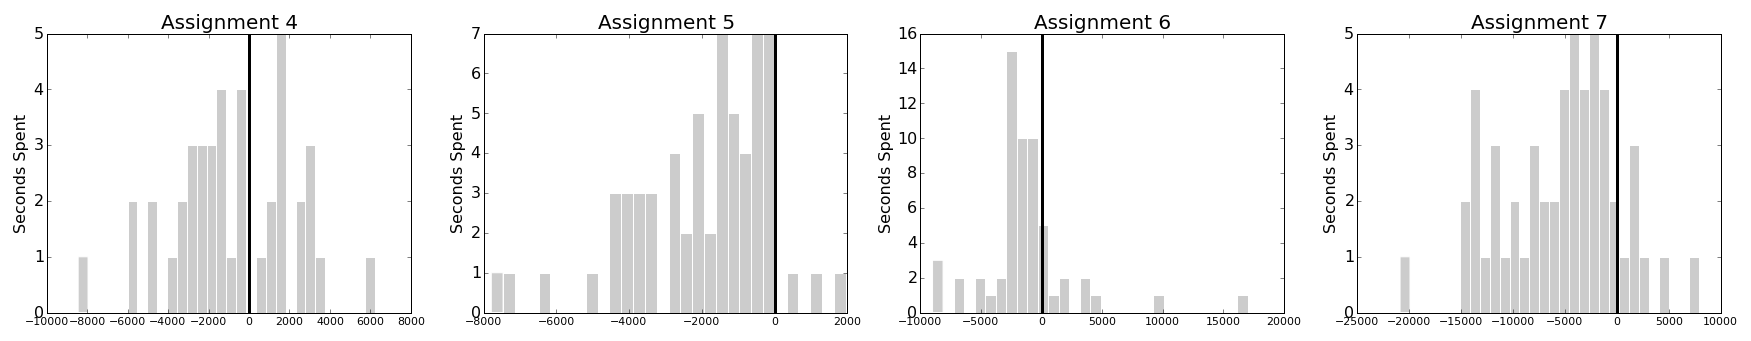
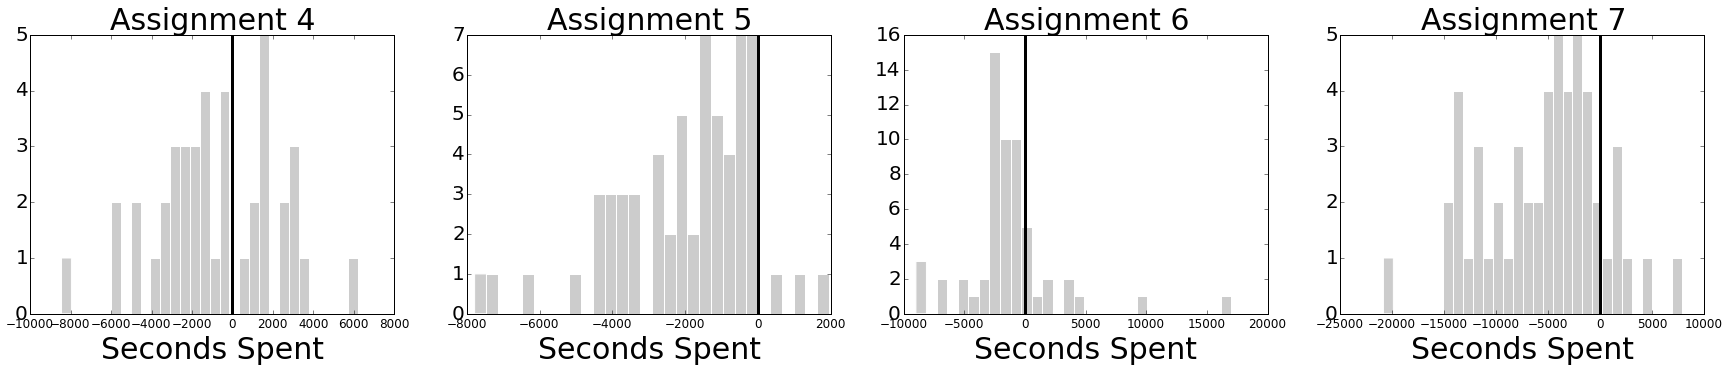
updated new graphs

diff --git a/main.tex b/main.tex
@@ -204,9 +204,8 @@ simplified setting. This design is based on the
 ``Verification-elaboration'' directive of Shute~\cite{Shute2008}.
 
 As an example of a specific hint, consider a problem about the
-probability of a specific hand in a Texas Hold'em poker. Figure
-\ref{fig:hint_prob} shows the problem, and Table \ref{tab:hints_sent}
-shows some of the hints designed for this problem. The first three hints
+probability of a specific hand in a Texas Hold'em poker. Figure \ref{fig:hints_sent}
+shows the problem and also some of the hints designed for this problem. The first three hints
 in the table are generic. The fourth attempt has no matching to
 any part of the solution, therefore the hint asks the student to focus
 on the first part of the solution, which is $C(52-2,2)$. The last
@@ -218,13 +217,7 @@ think about how to calculate a complement.
 
 \begin{figure}[t!]
   \centering
-	\includegraphics[width=0.95\textwidth]{image/problem_screenshot.png} \\
-	\includegraphics[width=0.95\textwidth]{image/part_screenshot.png}
-   \captionof{figure}{This is a problem(problem 5) assigned to students in week 4. The problem is to find the probability of a specific hand in Texas Hold'em poker. This problem has four parts that students need to answer. The picture shows the second part of the problem.}
-   \label{fig:hint_prob}
-
-
-\captionof{table}{The table lists a few student attempts for part two of problem 5 in week 4 assignment. The problem is shown in Figure \ref{fig:hint_prob} along with the question and the solution of part 2.}
+	\includegraphics[width=0.99\textwidth]{image/problem.png}
 \begin{center}
   \begin{tabular}{ p{2.5cm}  p{1.5cm}  p{7.5cm} }
     Attempts & Hint Type & Hints \\ \hline
@@ -234,7 +227,8 @@ think about how to calculate a complement.
    4*46 & Specific & How do you pick 2 cards from a deck?if you are going to pick 2 cards from a 4-card deck, how many combinations are there? \\ \hline
    $C(47,2)$ & Specific & What is the complement of at least a 3 shows in turn and river? what is the complement of at least one? \\
   \end{tabular}
-  \label{tab:hints_sent}
+  \captionof{figure}{This is problem 5 assigned to students in week 4. The problem is to find the probability of a specific hand in Texas Hold'em poker. This problem has four parts that students need to answer. The picture shows the second part of the problem along with the solution. The table at the bottom lists a few student attempts and the hints that they received. There are three generic hints and two specific hints listed in the table.}
+  \label{fig:hints_sent}
   \end{center}
 \end{figure}
 
@@ -352,9 +346,9 @@ students.
 
 \begin{figure}[th]
 \centering
-	\includegraphics[width=0.95\textwidth]{image/assignment_time_downstream.png}\\
-	\includegraphics[width=0.95\textwidth]{image/assignment_time_downstream.png}
-\captionof{figure}{The distribution of difference of attempts (seconds spent) between case student and the control students. Each subplot corresponds to the distribution of an assignment. All four graphs have distribution with negative means, which means that the control students spent more attempts compared to the case students.}
+	\includegraphics[width=0.99\textwidth]{image/assignment_tries_downstream.png}\\
+	\includegraphics[width=0.99\textwidth]{image/assignment_time_downstream.png}
+\captionof{figure}{The distribution of difference of attempts (seconds spent) between case student and the control students. Each subplot corresponds to the distribution of an assignment. The black lines in the graphs indicate the zero mean. All four graphs have distribution with negative means, which means that the control students spent more attempts compared to the case students.}
 \label{fig:downstream_analysis}
 
 \end{figure}
